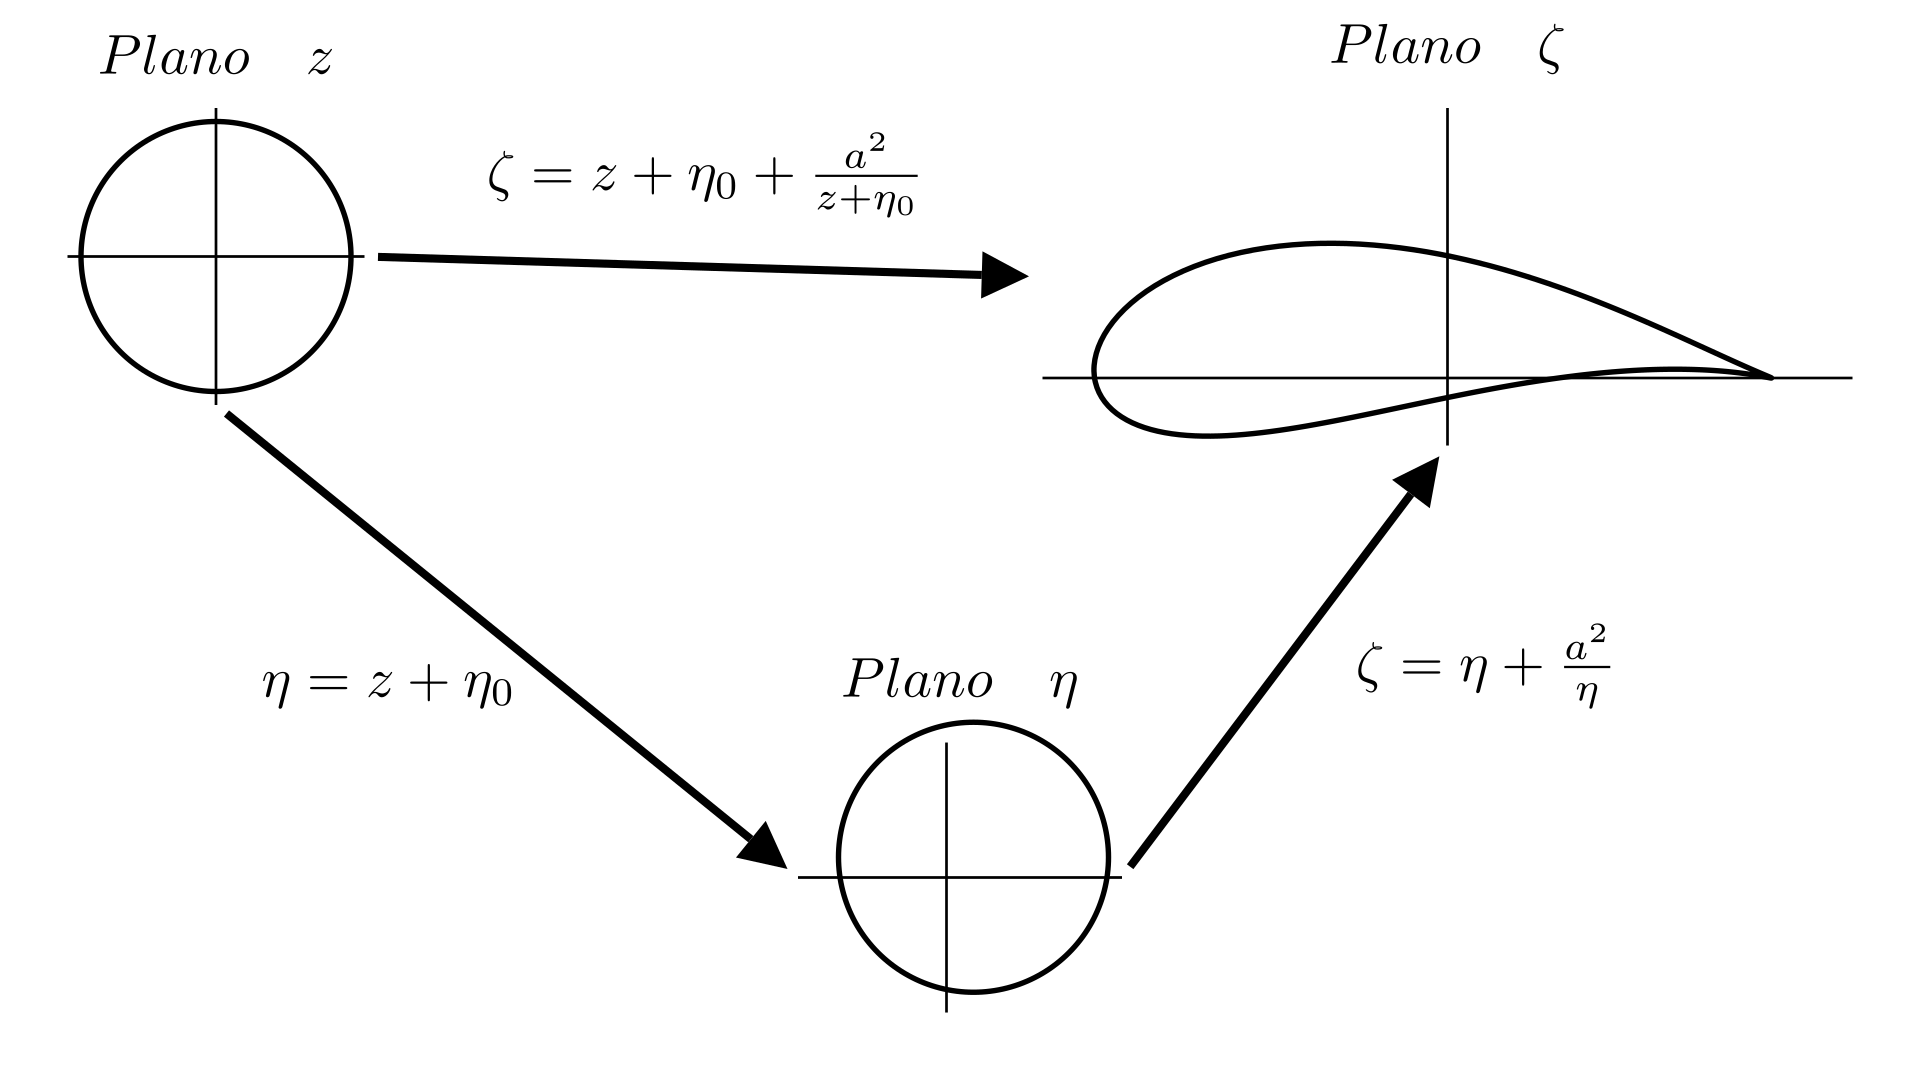
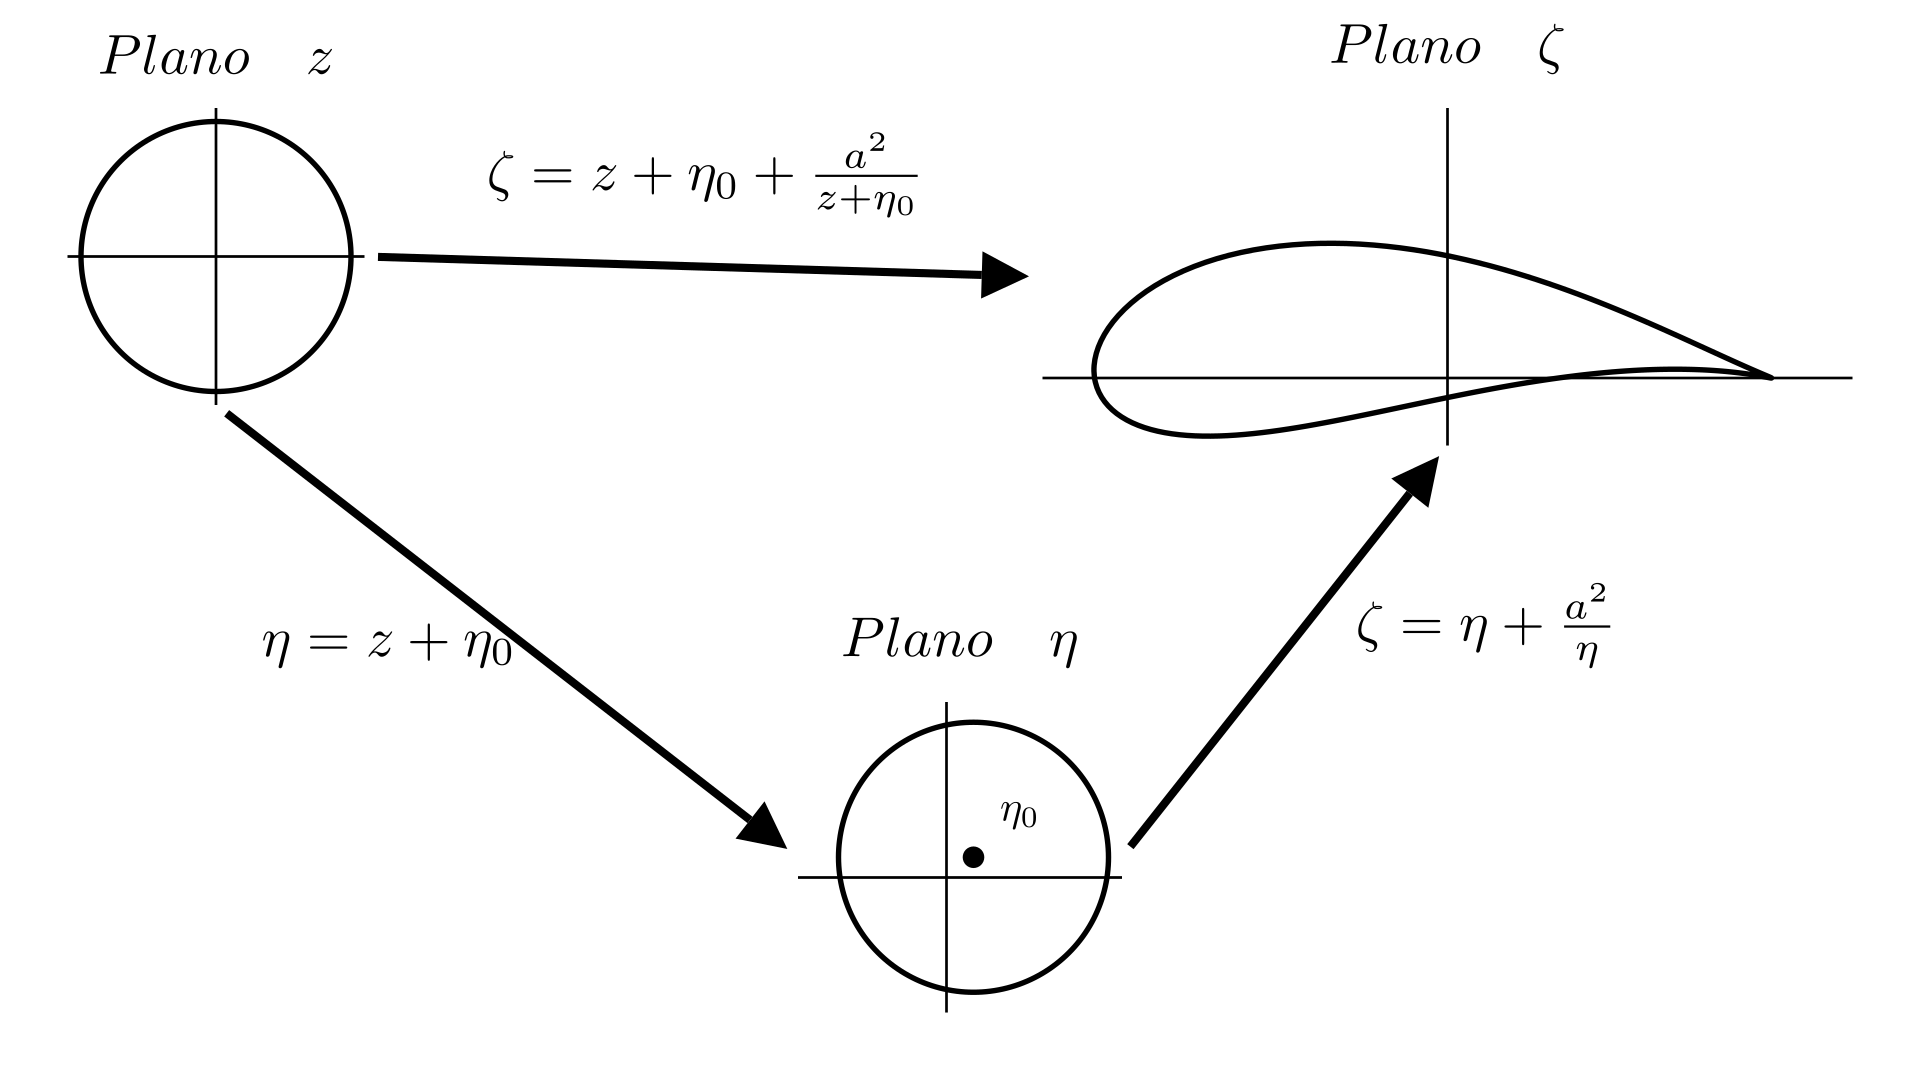
working on images

diff --git a/plots.py b/plots.py
@@ -51,7 +51,7 @@ class JoukouskiTransform(Scene):
         )
         plane2 = NumberPlane(
             x_range=(-1.1, (1.1+eta0.real)),
-            y_range=(-1, 1, (1.1+eta0.imag)),
+            y_range=(-1, 1.3, (1.1+eta0.imag)),
             background_line_style={
                 "stroke_color": WHITE,
                 "stroke_width": 0,
@@ -77,6 +77,12 @@ class JoukouskiTransform(Scene):
         axes = VGroup(plane1, plane2, plane3)
 
         self.add(axes)
+
+        dot = Dot(color="#000").move_to(
+            plane2.coords_to_point(eta0.real, eta0.imag))
+        dotLabel = Tex(r"$\eta_0$", font_size=30,
+                       color="#000").next_to(dot, 0.5 * UR)
+        self.add(dotLabel, dot)
         # create the arrow
         arrow = Arrow(
             start=plane1.get_bottom(),
@@ -162,6 +168,7 @@ class JoukouskiTransform(Scene):
 class Airfoil(Scene):
     def construct(self):
         self.camera.background_color = "#FFF"
+        sq = Square(side_length=20.0)
 
         plane = NumberPlane(
             x_range=(-3, 3),
@@ -175,7 +182,7 @@ class Airfoil(Scene):
             },
             axis_config={"color": BLACK}
         )
-
+        sq.move_to([0, 0, 0])
         curve = plane.plot_parametric_curve(
             lambda t: np.array(
                 [
@@ -185,10 +192,12 @@ class Airfoil(Scene):
                 ]
             ),
             t_range=[0, 2 * np.pi],
-            color="#000",
-            stroke_width=5
+            color="#ece6e2",
+            stroke_width=0
         )
-        self.add(plane, curve)
+        un = Intersection(sq, curve, color="#ece6e2",
+                          fill_opacity=1, stroke_color=BLACK)
+        self.add(plane, curve, un)
 
 
 class uniformFlow(Scene):
@@ -208,7 +217,8 @@ class vortex(Scene):
                 return 0*UR
             else:
                 return 10*((-1)*pos[1]/(2*np.pi*(pos[0]**2 + pos[1]**2))*RIGHT + (pos[0]/(2*np.pi*(pos[0]**2 + pos[1]**2)))*UP)
-        vf = ArrowVectorField(func, opacity=25).scale(2.3)
+        vf = ArrowVectorField(func, opacity=25, min_color_scheme_value=1.2,
+                              stroke_width=7, max_color_scheme_value=3,).scale(2.3)
         self.add(vf)
 
 
@@ -221,15 +231,26 @@ class FlowAroundCircle(Scene):
             if np.abs(pos[0]) < 1 and np.abs(pos[1]) < 1:
                 return 0*UR
             else:
-                return ((200*pos[1]**2/(pos[0]**2 + pos[1]**2)**2 + 100 - 100/(pos[0]**2 + pos[1]**2))*RIGHT + (-200*pos[0]*pos[1]/(pos[0]**2 + pos[1]**2)**2)*UP)/80
-        vf = ArrowVectorField(func).scale(2.3)
+                return ((2*u0*pos[1]**2/(pos[0]**2 + pos[1]**2)**2 + u0 - u0/(pos[0]**2 + pos[1]**2))*RIGHT + (-2*u0*pos[0]*pos[1]/(pos[0]**2 + pos[1]**2)**2)*UP)/80
+        vf = ArrowVectorField(func, stroke_width=25, min_color_scheme_value=((u0-20)/80),
+                              max_color_scheme_value=(u0+20)/80).scale(2.3)
+
         plane = NumberPlane(background_line_style={
             "stroke_color": WHITE,
             "stroke_width": 0,
             "stroke_opacity": 0.6
         },
             axis_config={"color": BLACK})
-        self.add(vf, plane)
+
+        stream = StreamLines(
+            func, stroke_width=3, max_anchors_per_line=20, min_color_scheme_value=((u0-20)/80),
+            max_color_scheme_value=(u0+20)/80
+        ).scale(2.3).move_to(
+            plane.coords_to_point(3, 0))
+        circle = Circle(radius=2.3, color="#ece6e2", stroke_color=BLACK, fill_opacity=1).move_to(
+            plane.coords_to_point(0, 0))
+
+        self.add(vf, stream, plane, circle,)
 
 
 class StreamLinesCircle(Scene):
@@ -256,8 +277,8 @@ class StreamLinesCircleCirculation(Scene):
                 return 0*UR
             else:
                 return ((gamma*pos[1]/(2*np.pi*(pos[0]**2 + pos[1]**2)) - 2*R**2*u0*pos[0]**2/(pos[0]**2 + pos[1]**2)**2 + R**2*u0/(pos[0]**2 + pos[1]**2) + u0)*RIGHT + (-gamma*pos[0]/(2*np.pi*(pos[0]**2 + pos[1]**2)) - 2*R**2*u0*pos[0]*pos[1]/(pos[0]**2 + pos[1]**2)**2)*UP)/div
-        vf = ArrowVectorField(func, min_color_scheme_value=u0,
-                              max_color_scheme_value=(u0+10))
+        vf = ArrowVectorField(func, min_color_scheme_value=((u0-15)/100),
+                              max_color_scheme_value=((u0+15)/100))
         plane = NumberPlane(
             background_line_style={
                 "stroke_color": WHITE,
@@ -266,9 +287,11 @@ class StreamLinesCircleCirculation(Scene):
             },
             axis_config={"color": BLACK}
         )
+        circle = Circle(radius=1, color="#ece6e2", stroke_color=BLACK, fill_opacity=1).move_to(
+            plane.coords_to_point(0, 0))
         items = VGroup(vf, plane, StreamLines(
-            func, stroke_width=3, max_anchors_per_line=30, min_color_scheme_value=u0,
-            max_color_scheme_value=(u0+10)))
+            func, stroke_width=3, max_anchors_per_line=30, min_color_scheme_value=((u0-15)/100),
+            max_color_scheme_value=((u0+15)/100)), circle)
         self.add(items.scale(2))
 
 
@@ -295,6 +318,8 @@ def derivate(func, x0, y0, param):
 class StreamLinesAirfoil(Scene):
     def construct(self):
         self.camera.background_color = "#FFF"
+        sq = Square(side_length=20.0)
+        sq.move_to([0, 0, 0])
 
         def func1(pos):
             x = pos[0]
@@ -341,8 +366,12 @@ class StreamLinesAirfoil(Scene):
             ),
             t_range=[0, 2 * np.pi],
             color="#000",
+            stroke_width=0
         )
-        items = VGroup(vf, plane, curve, stream)
+        area = Intersection(sq, curve,              color="#ece6e2",
+                            fill_opacity=1, stroke_color=BLACK)
+        self.add_foreground_mobjects(area)
+        items = VGroup(vf, plane, area, stream)
         items.scale(2)
         self.add(items)
 

diff --git a/Joukoski_airfoli.tex b/Joukoski_airfoli.tex
@@ -112,8 +112,7 @@
 	
 	La transformada es
 	\begin{equation}
-		\zeta = \eta + \frac{a^2}{\eta}
-		\label{eq:}
+		\zeta = \eta + \frac{a^2}{\eta}	
 	\end{equation}
 	
 	\noindent y usando la técnica de transformación compuesta asi es como podemos pasar de un circulo a este perfil aerodinámico
@@ -185,7 +184,6 @@
 						\includegraphics[width=0.95\textwidth]{uniformFlow_ManimCE_v0.17.1.png}
 					\end{center}
 					\caption{}
-					\label{fig:}
 				\end{small}
 			\end{figure}
 			
@@ -203,7 +201,6 @@
 						\includegraphics[width=0.95\textwidth]{vortex_ManimCE_v0.17.1.png}
 					\end{center}
 					\caption{}
-					\label{fig:}
 				\end{small}
 			\end{figure}
 			
@@ -240,7 +237,6 @@
 					\includegraphics[width=0.95\textwidth]{FlowAroundCircle_ManimCE_v0.17.1.png}
 				\end{center}
 				\caption{}
-				\label{fig:}
 			\end{small}
 		\end{figure}
 		
@@ -253,7 +249,6 @@
 
 			\begin{equation}
 				\Gamma=4 \pi U_0 \eta_{0_y}
-				\label{eq:}
 			\end{equation}
 			Donde $\eta_{0_y}$ es la parte compleja del centro del circulo en el plano $\eta$ después de hacer la transformación del circulo unitario en el plano $z$ al plano $\eta$, y en este caso la función de flujo $ \psi $ es 
 			\begin{equation}
@@ -266,7 +261,6 @@
 						\includegraphics[width=0.95\textwidth]{StreamLinesCircleCirculation_ManimCE_v0.17.1.png}
 					\end{center}
 					\caption{}
-					\label{fig:}
 				\end{small}
 			\end{figure}
 			
@@ -280,27 +274,46 @@
 
 			\begin{equation}
 				\Xi(\zeta)= W(Z(\zeta))	= \Phi +i \Psi 			
-				\label{eq:}
 			\end{equation}
 			y la función inversa es:
 			\begin{equation}
 				Z(\zeta)= \frac{1}{2}\left(\zeta \pm  \sqrt{\zeta^2 -4R^2} \right) - \eta_0
-				\label{eq:}
 			\end{equation}
 			Haciendo la evaluación $W(Z(\zeta))$
 			
 			\begin{equation}
 				\begin{split}
-					W(Z(\zeta)) = \Xi(\zeta) =& U_0 \frac{1}{2}\left(\zeta \pm  \sqrt{\zeta^2 -4R^2} \right) - \eta_0 + \frac{ U_0R^2}{\frac{1}{2}\left(\zeta \pm  \sqrt{\zeta^2 -4R^2} \right) - \eta_0} + \frac{i \Gamma}{2 \pi}\log \left(\frac{1}{2}\left(\zeta \pm  \sqrt{\zeta^2 -4R^2} \right) - \eta_0\right)\\
-				\end{split}		
-				\label{eq:}
+					W(Z(\zeta)) = \Xi(\zeta) =& U_0 \frac{1}{2}\left(\zeta \pm  \sqrt{\zeta^2 -4R^2} \right) - \eta_0 + \frac{ U_0R^2}{\frac{1}{2}\left(\zeta \pm  \sqrt{\zeta^2 -4R^2} \right) - \eta_0}\\ 
+					&+ \frac{i \Gamma}{2 \pi}\log \left(\frac{1}{2}\left(\zeta \pm  \sqrt{\zeta^2 -4R^2} \right) - \eta_0\right)\\
+				\end{split}	
 			\end{equation}
 			y cuya función de flujo $\Psi $ es:
+			\begin{equation}
+				Im[\Xi(\zeta)]=\Psi 
+			\end{equation}
+			(quiten esto si quieren )
 			\begin{equation}
 				\Psi = \frac{\Gamma \log{\left(\left|{\eta_{0} - \frac{x}{2} - \frac{i y}{2} + \frac{\sqrt{- 4 a^{2} + x^{2} + 2 i x y - y^{2}}}{2}}\right| \right)}}{2 \pi} + \frac{R^{2} u_{0} \left(- \frac{y}{2} + \frac{\sqrt[4]{4 x^{2} y^{2} + \left(- 4 a^{2} + x^{2} - y^{2}\right)^{2}} \sin{\left(\frac{\operatorname{atan}_{2}{\left(2 x y,- 4 a^{2} + x^{2} - y^{2} \right)}}{2} \right)}}{2} + \operatorname{im}{\left(\eta_{0}\right)}\right)}{\left(\frac{x}{2} - \frac{\sqrt[4]{4 x^{2} y^{2} + \left(- 4 a^{2} + x^{2} - y^{2}\right)^{2}} \cos{\left(\frac{\operatorname{atan}_{2}{\left(2 x y,- 4 a^{2} + x^{2} - y^{2} \right)}}{2} \right)}}{2} - \operatorname{re}{\left(\eta_{0}\right)}\right)^{2} + \left(\frac{y}{2} - \frac{\sqrt[4]{4 x^{2} y^{2} + \left(- 4 a^{2} + x^{2} - y^{2}\right)^{2}} \sin{\left(\frac{\operatorname{atan}_{2}{\left(2 x y,- 4 a^{2} + x^{2} - y^{2} \right)}}{2} \right)}}{2} - \operatorname{im}{\left(\eta_{0}\right)}\right)^{2}} + u_{0} \left(\frac{y}{2} - \frac{\sqrt[4]{4 x^{2} y^{2} + \left(- 4 a^{2} + x^{2} - y^{2}\right)^{2}} \sin{\left(\frac{\operatorname{atan}_{2}{\left(2 x y,- 4 a^{2} + x^{2} - y^{2} \right)}}{2} \right)}}{2} - \operatorname{im}{\left(\eta_{0}\right)}\right)
 				\label{eq:}
 			\end{equation}
-			Por motivos se simplicidad no mostrare cuanto vale $v_x$ y $v_y$ 
+			Por motivos se simplicidad no mostrare cuanto vale $v_x$ y $v_y$ pero se sobrentiende que es
+			\begin{equation}
+				\begin{split}
+					v_x &= \frac{\partial \Psi }{\partial y}\\
+					v_x &= \frac{\partial \Psi }{\partial y}
+				\end{split}
+			\end{equation}
+			y aquí la representación del flujo en el perfil alar original
+			\begin{figure}
+				\begin{small}
+					\begin{center}
+						\includegraphics[width=0.95\textwidth]{StreamLinesAirfoil_ManimCE_v0.17.1}
+					\end{center}
+					\caption{}
+				\end{small}
+			\end{figure}
+			
+			
 			
 		 	
 			

diff --git a/calculations.py b/calculations.py
@@ -6,7 +6,7 @@ z, eta, zeta, eta0 = symbols('z eta zeta eta0')
 
 #z = x+I*y
 
-zeta = I*y
+zeta = x+I*y
 
 z = (zeta-sqrt(zeta**2-4*a**2))/2-eta0
 
